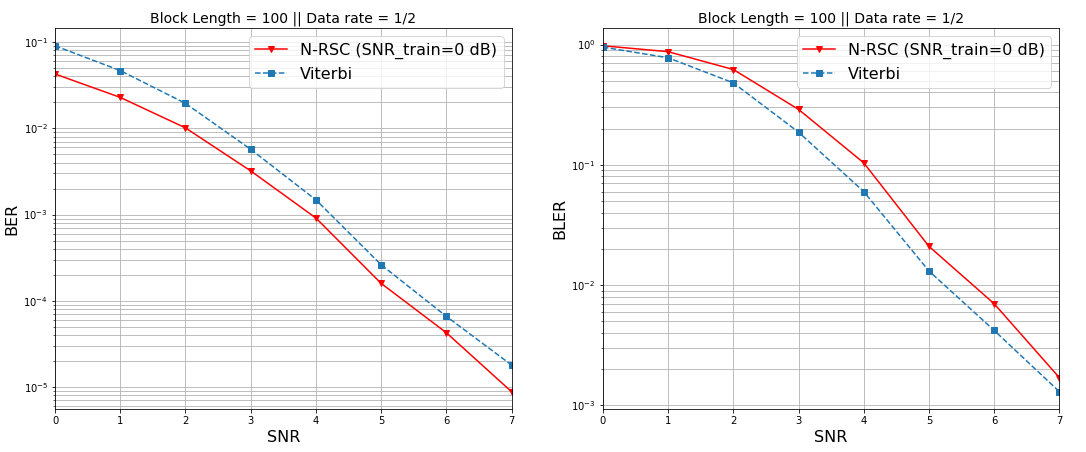
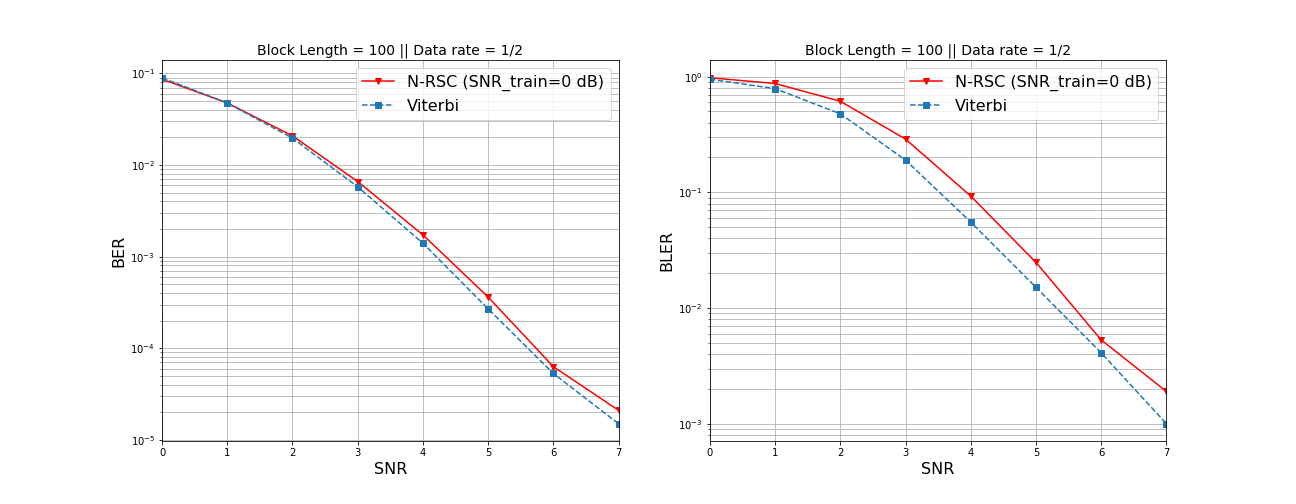
Update Result

Changed region(s): [[0.0, 0.031, 0.9724, 0.9912], [0.5166, 0.8053, 0.9116, 0.9912], [0.9116, 0.8982, 0.942, 0.9292]]

diff --git a/evaluate.py b/evaluate.py
@@ -1,4 +1,9 @@
 """Evaluate a neural decoder at multiple SNR (Signal to Noise) values.
+
+python evaluate.py \
+--checkpoint_dir ./reports/logs/BiGRU-2-400::dropout-0.3::epochs-50 \
+--dataset ./rnn_120k_bl100_snr0.dataset \
+--batch_size 600
 """
 import os
 import argparse
@@ -56,8 +61,7 @@ def main(args):
   labels = np.reshape(Y_test, (-1, block_length)).astype(int)
   pool = mp.Pool(processes=mp.cpu_count())
   try:
-    # Test at multiple SNRs
-    SNRs  = np.linspace(0, 7.0, 4)
+    SNRs  = np.linspace(0, 7.0, 8)
     for snr in SNRs:
       # Compute noise variance `sigma`
       snr_linear = snr + 10 * np.log10(1./2.)

diff --git a/train.py b/train.py
@@ -3,18 +3,18 @@
 Example Usage:
 
 # For CPU
->> python train_rnn.py \
---dataset ./rnn_0k_bl50_snr0.dataset \
---batch_size 4
---epochs 50
---dropout_Rate 0.7
+>> python train.py \
+--dataset ./rnn_0k_bl100_snr0.dataset \
+--batch_size 4 \
+--epochs 50 \
+--dropout_rate 0.7
 
 # For GPU
->> python train_rnn.py \
---dataset ./rnn_120k_bl50_snr0.dataset \
---batch_size 500
---epochs 50
---dropout_Rate 0.7
+>> python train.py \
+--dataset ./rnn_120k_bl100_snr0.dataset \
+--batch_size 500 \
+--epochs 50 \
+--dropout_rate 0.3 
 """
 import os
 import argparse
